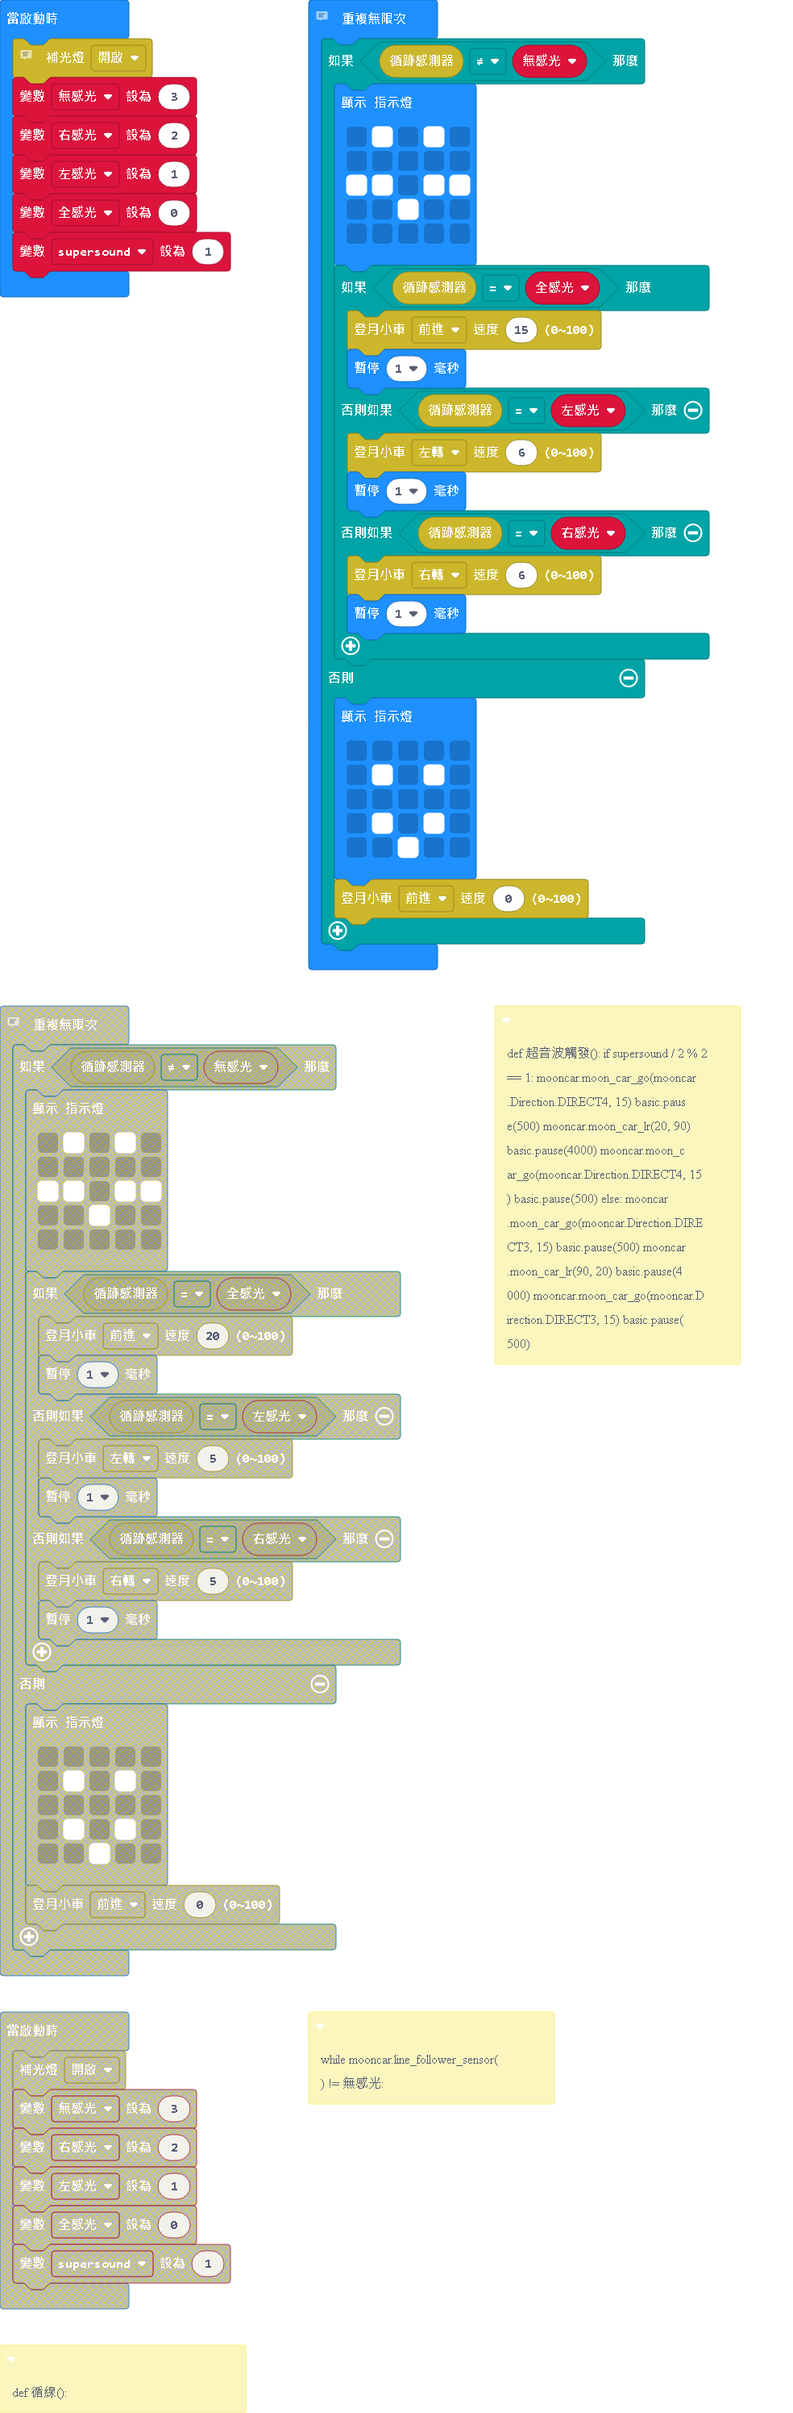
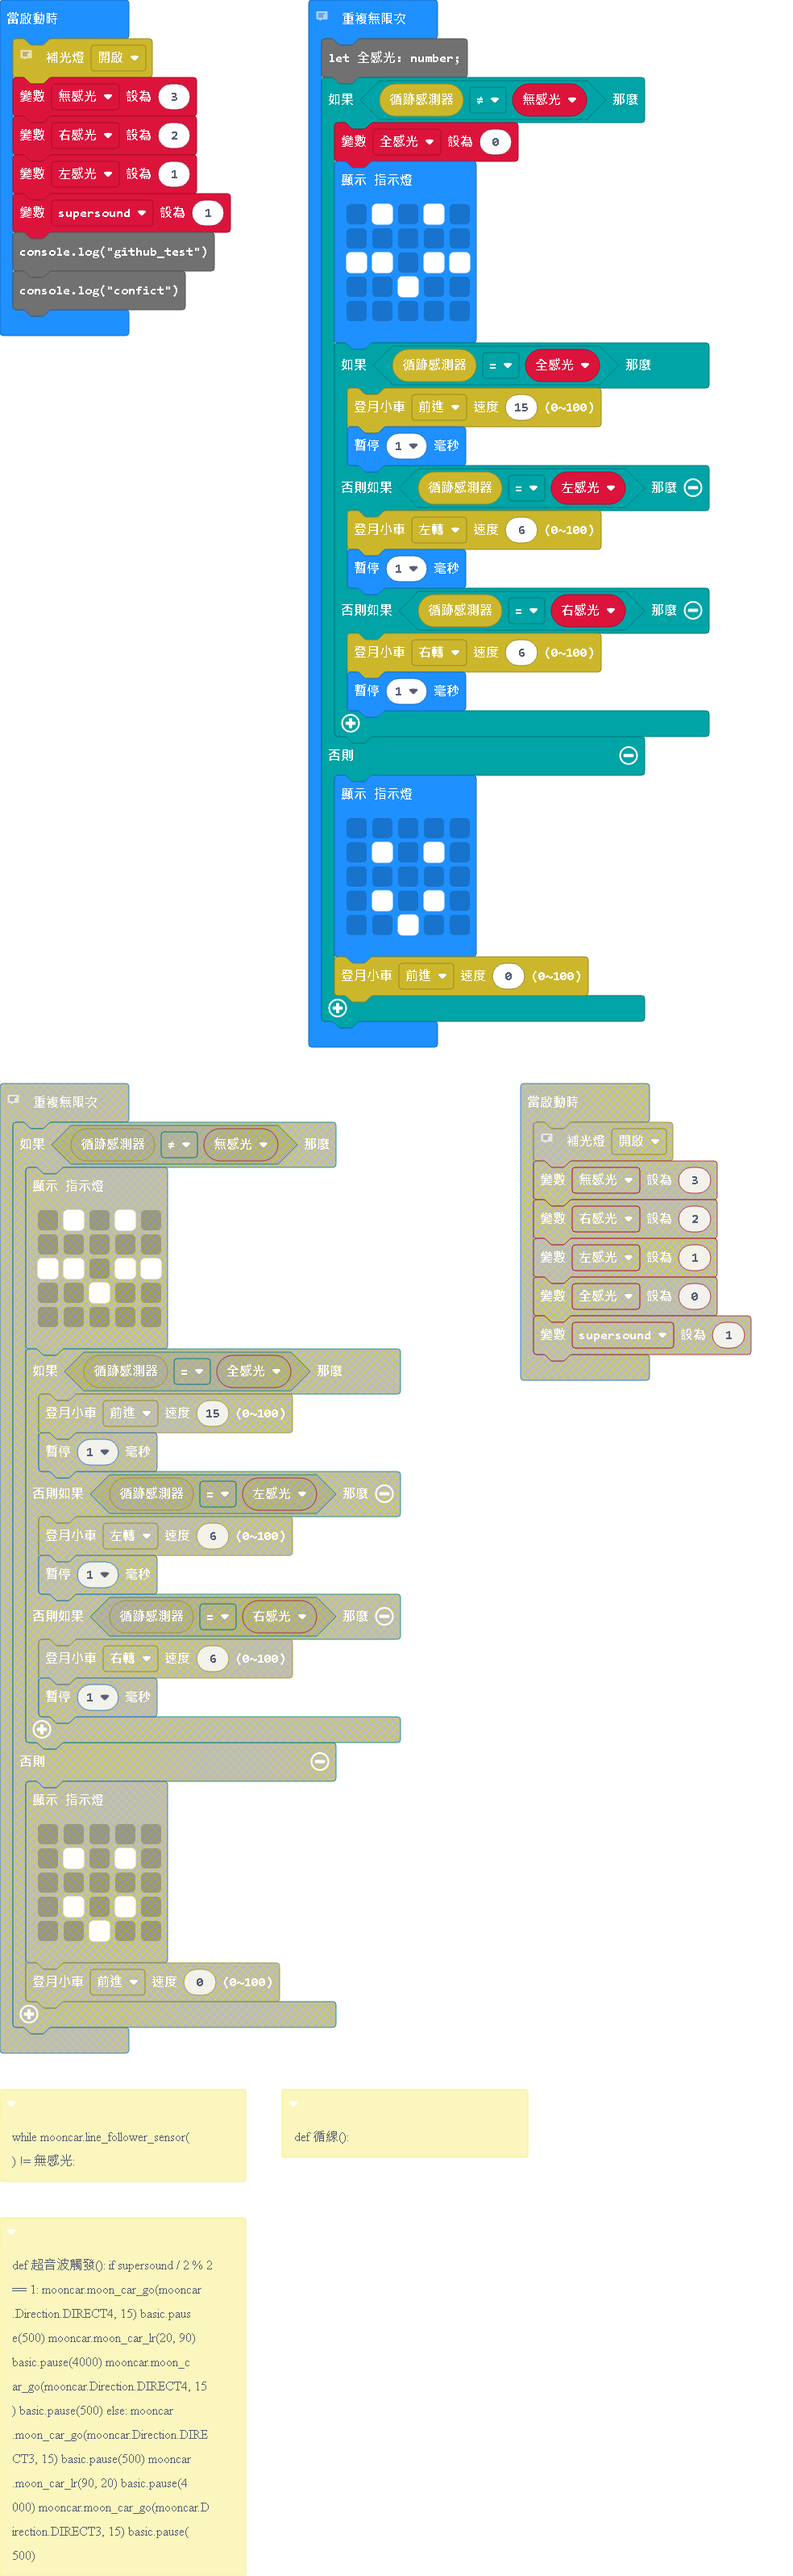
test_confict

diff --git a/main.ts b/main.ts
@@ -1,62 +1,64 @@
-/**
- * while mooncar.line_follower_sensor() != 無感光:
+/** while mooncar.line_follower_sensor() != 無感光: */
+/** def 循線(): */
+/** 
+
+def 超音波觸發():
+
+if supersound / 2 % 2 == 1:
+
+mooncar.moon_car_go(mooncar.Direction.DIRECT4, 15)
+
+basic.pause(500)
+
+mooncar.moon_car_lr(20, 90)
+
+basic.pause(4000)
+
+mooncar.moon_car_go(mooncar.Direction.DIRECT4, 15)
+
+basic.pause(500)
+
+else:
+
+mooncar.moon_car_go(mooncar.Direction.DIRECT3, 15)
+
+basic.pause(500)
+
+mooncar.moon_car_lr(90, 20)
+
+basic.pause(4000)
+
+mooncar.moon_car_go(mooncar.Direction.DIRECT3, 15)
+
+basic.pause(500)
+
+
  */
-/**
- * def 循線():
- */
-/**
- * def 超音波觸發():
- * 
- * if supersound / 2 % 2 == 1:
- * 
- * mooncar.moon_car_go(mooncar.Direction.DIRECT4, 15)
- * 
- * basic.pause(500)
- * 
- * mooncar.moon_car_lr(20, 90)
- * 
- * basic.pause(4000)
- * 
- * mooncar.moon_car_go(mooncar.Direction.DIRECT4, 15)
- * 
- * basic.pause(500)
- * 
- * else:
- * 
- * mooncar.moon_car_go(mooncar.Direction.DIRECT3, 15)
- * 
- * basic.pause(500)
- * 
- * mooncar.moon_car_lr(90, 20)
- * 
- * basic.pause(4000)
- * 
- * mooncar.moon_car_go(mooncar.Direction.DIRECT3, 15)
- * 
- * basic.pause(500)
- */
-// pass
+//  pass
 mooncar.Filllight(mooncar.Switch.Open)
 let 無感光 = 3
 let 右感光 = 2
 let 左感光 = 1
-let 全感光 = 0
 let supersound = 1
-// def on_forever():
-// if supersound % 2 == 1:
-// 循線()
-// else:
-// basic.pause(6000)
-// basic.forever(on_forever)
-basic.forever(function () {
+console.log("github_test")
+console.log("confict")
+//  def on_forever():
+//  if supersound % 2 == 1:
+//  循線()
+//  else:
+//  basic.pause(6000)
+//  basic.forever(on_forever)
+basic.forever(function on_forever() {
+    let 全感光: number;
     if (mooncar.LineFollowerSensor() != 無感光) {
+        全感光 = 0
         basic.showLeds(`
             . # . # .
-            . . . . .
-            # # . # #
-            . . # . .
-            . . . . .
-            `)
+                        . . . . .
+                        # # . # #
+                        . . # . .
+                        . . . . .
+        `)
         if (mooncar.LineFollowerSensor() == 全感光) {
             mooncar.MoonCarGo(mooncar.Direction.direct1, 15)
             basic.pause(1)
@@ -67,14 +69,17 @@ basic.forever(function () {
             mooncar.MoonCarGo(mooncar.Direction.direct4, 6)
             basic.pause(1)
         }
+        
     } else {
         basic.showLeds(`
             . . . . .
-            . # . # .
-            . . . . .
-            . # . # .
-            . . # . .
-            `)
+                        . # . # .
+                        . . . . .
+                        . # . # .
+                        . . # . .
+        `)
         mooncar.MoonCarGo(mooncar.Direction.direct1, 0)
     }
+    
 })
+console.log("confict")

diff --git a/main.py b/main.py
@@ -47,6 +47,8 @@ mooncar.filllight(mooncar.Switch.OPEN)
 右感光 = 2
 左感光 = 1
 supersound = 1
+print("github_test")
+print("confict")
 # def on_forever():
 # if supersound % 2 == 1:
 # 循線()
@@ -65,13 +67,13 @@ def on_forever():
                         . . . . .
         """)
         if mooncar.line_follower_sensor() == 全感光:
-            mooncar.moon_car_go(mooncar.Direction.DIRECT1, 20)
+            mooncar.moon_car_go(mooncar.Direction.DIRECT1, 15)
             basic.pause(1)
         elif mooncar.line_follower_sensor() == 左感光:
-            mooncar.moon_car_go(mooncar.Direction.DIRECT3, 5)
+            mooncar.moon_car_go(mooncar.Direction.DIRECT3, 6)
             basic.pause(1)
         elif mooncar.line_follower_sensor() == 右感光:
-            mooncar.moon_car_go(mooncar.Direction.DIRECT4, 5)
+            mooncar.moon_car_go(mooncar.Direction.DIRECT4, 6)
             basic.pause(1)
     else:
         basic.show_leds("""
@@ -83,3 +85,6 @@ def on_forever():
         """)
         mooncar.moon_car_go(mooncar.Direction.DIRECT1, 0)
 basic.forever(on_forever)
+
+
+print('confict')
